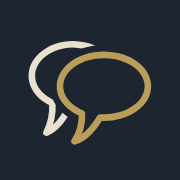
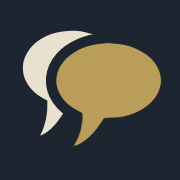
الأيقونة داخل مربع كحلي بفقاعتين مملوءتين، لتظهر بوضوح في التبويبات
- ألوان ثابتة (بلا تبديل للوضع الداكن، فشريط التبويبات قد يخالف وضع النظام)
- أيقونة آبل مربع كامل، و?v=3 في الروابط

diff --git a/index.html b/index.html
@@ -6,9 +6,9 @@
 <title>رسائل حوارية لغير المسلمين</title>
 <meta name="description" content="رسائل متدرجة تعين الداعية على محاورة غير المسلمين ودعوتهم إلى الإسلام.">
 <meta name="theme-color" content="#1d2531">
-<link rel="icon" href="images/favicon-32.png?v=2" sizes="32x32" type="image/png">
-<link rel="icon" href="images/favicon.svg?v=2" type="image/svg+xml">
-<link rel="apple-touch-icon" href="images/apple-touch-icon.png?v=2">
+<link rel="icon" href="images/favicon-32.png?v=3" sizes="32x32" type="image/png">
+<link rel="icon" href="images/favicon.svg?v=3" type="image/svg+xml">
+<link rel="apple-touch-icon" href="images/apple-touch-icon.png?v=3">
 <link rel="preload" href="fonts/thmanyah-sans-400.woff2" as="font" type="font/woff2" crossorigin>
 <link rel="preload" href="fonts/thmanyah-serif-display-700.woff2" as="font" type="font/woff2" crossorigin>
 <link rel="stylesheet" href="css/fonts.css">

diff --git a/privacy.html b/privacy.html
@@ -4,9 +4,9 @@
 <meta charset="utf-8">
 <meta name="viewport" content="width=device-width, initial-scale=1">
 <title>سياسة الخصوصية — رسائل حوارية لغير المسلمين</title>
-<link rel="icon" href="images/favicon-32.png?v=2" sizes="32x32" type="image/png">
-<link rel="icon" href="images/favicon.svg?v=2" type="image/svg+xml">
-<link rel="apple-touch-icon" href="images/apple-touch-icon.png?v=2">
+<link rel="icon" href="images/favicon-32.png?v=3" sizes="32x32" type="image/png">
+<link rel="icon" href="images/favicon.svg?v=3" type="image/svg+xml">
+<link rel="apple-touch-icon" href="images/apple-touch-icon.png?v=3">
 <meta name="description" content="ما الذي يحفظه موقع «رسائل حوارية لغير المسلمين» عن زواره ومشتركيه، ولماذا، ومن يطّلع عليه.">
 <link rel="stylesheet" href="css/fonts.css">
 <link rel="stylesheet" href="css/main.css">

diff --git a/admin.html b/admin.html
@@ -5,9 +5,9 @@
 <meta name="viewport" content="width=device-width, initial-scale=1">
 <meta name="robots" content="noindex">
 <title>الإحصاءات — رسائل حوارية</title>
-<link rel="icon" href="images/favicon-32.png?v=2" sizes="32x32" type="image/png">
-<link rel="icon" href="images/favicon.svg?v=2" type="image/svg+xml">
-<link rel="apple-touch-icon" href="images/apple-touch-icon.png?v=2">
+<link rel="icon" href="images/favicon-32.png?v=3" sizes="32x32" type="image/png">
+<link rel="icon" href="images/favicon.svg?v=3" type="image/svg+xml">
+<link rel="apple-touch-icon" href="images/apple-touch-icon.png?v=3">
 <link rel="stylesheet" href="css/fonts.css">
 <link rel="stylesheet" href="css/main.css">
 <link rel="stylesheet" href="css/admin.css">
